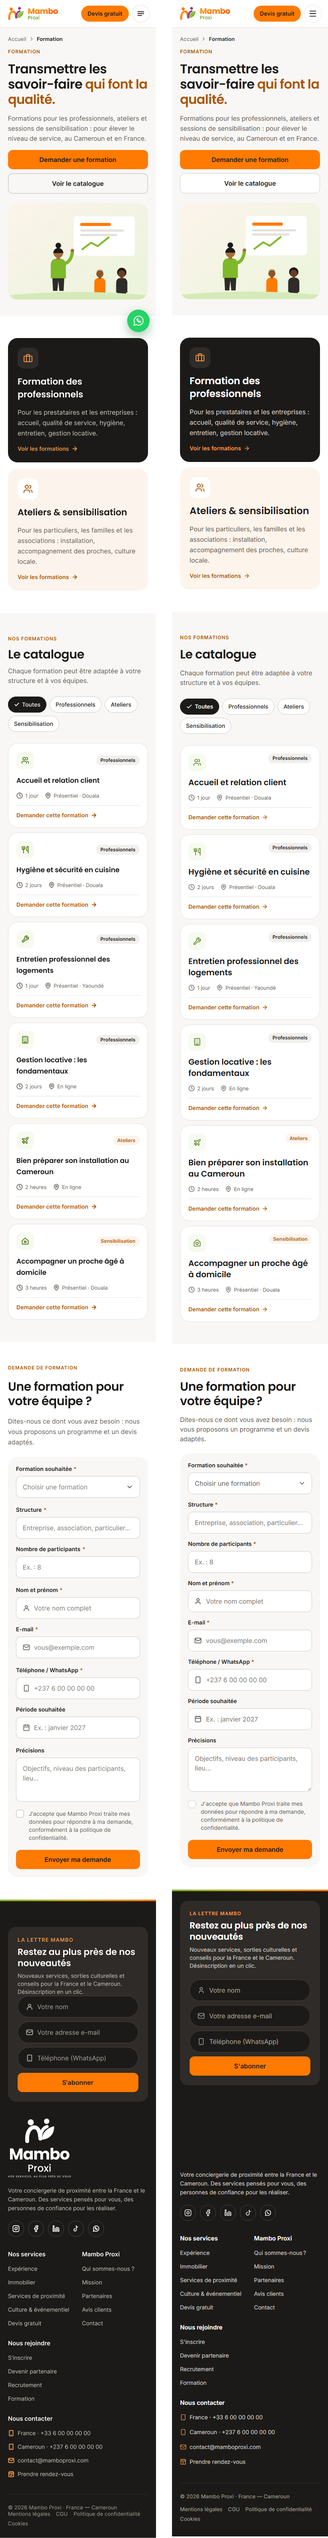
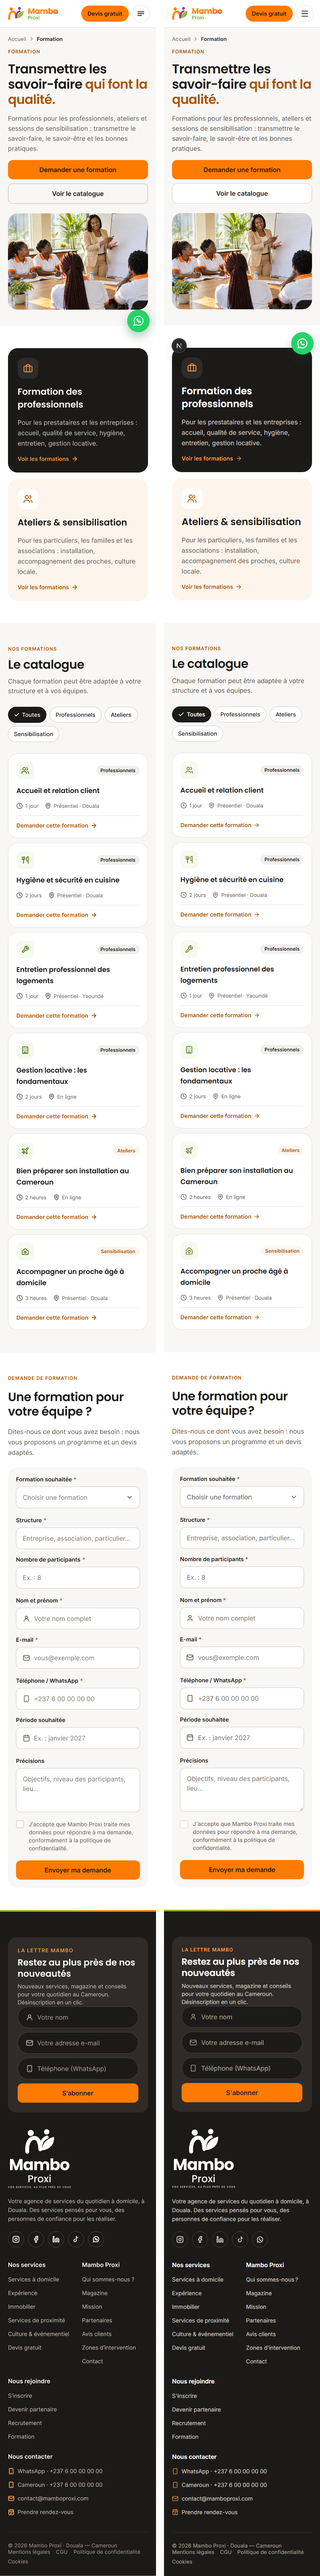
feat(formation): photos du héros et de la demande, chapô de la maquette, version anglaise et formations en anglais

Changed region(s): [[0.0, 0.0, 1.0, 1.0], [0.8438, 0.249, 0.9375, 0.2801], [0.8125, 0.5914, 0.9062, 0.6225]]

diff --git a/src/mocks/data/pages.ts b/src/mocks/data/pages.ts
@@ -947,7 +947,7 @@ const formation: Page = {
   seo: {
     title: 'Formations pour les professionnels et ateliers au Cameroun',
     description:
-      'Formations pour les professionnels, ateliers et sessions de sensibilisation : pour élever le niveau de service, au Cameroun et en France.',
+      'Formations pour les professionnels, ateliers et sessions de sensibilisation : transmettre le savoir-faire, le savoir-être et les bonnes pratiques.',
     ogImageUrl: null,
     noindex: false,
   },
@@ -959,8 +959,14 @@ const formation: Page = {
       variant: 'page',
       eyebrow: 'Formation',
       title: 'Transmettre les savoir-faire ==qui font la qualité.==',
-      lead: 'Formations pour les professionnels, ateliers et sessions de sensibilisation : pour élever le niveau de service, au Cameroun et en France.',
-      visual: visual('formation'),
+      lead: 'Formations pour les professionnels, ateliers et sessions de sensibilisation : transmettre le savoir-faire, le savoir-être et les bonnes pratiques.',
+      visual: photo(
+        'formation',
+        'formation-hero',
+        1280,
+        960,
+        'Une formatrice anime une session devant des intervenants en tenue Mambo Proxi.',
+      ),
       primaryCta: { label: 'Demander une formation', href: '#demande-formation', external: false },
       secondaryCta: { label: 'Voir le catalogue', href: '#catalogue', external: false },
       showWhatsapp: false,
@@ -1018,6 +1024,108 @@ const formation: Page = {
       eyebrow: 'Demande de formation',
       title: 'Une formation pour votre équipe ?',
       lead: 'Dites-nous ce dont vous avez besoin : nous vous proposons un programme et un devis adaptés.',
+      visual: photo(
+        'formation',
+        'formation-form',
+        1536,
+        1024,
+        'Une formatrice montre à une intervenante comment préparer un lit.',
+      ),
+    },
+  ],
+};
+
+/** Formation en anglais (`?lang=en`) : textes rédigés pour le site. */
+const formationEn: Page = {
+  ...formation,
+  title: 'Training',
+  seo: {
+    title: 'Training for professionals and workshops in Cameroon',
+    description:
+      'Training for professionals, workshops and awareness sessions: passing on know-how, people skills and good practice.',
+    ogImageUrl: null,
+    noindex: false,
+  },
+  sections: [
+    {
+      id: 'hero',
+      type: 'hero',
+      enabled: true,
+      variant: 'page',
+      eyebrow: 'Training',
+      title: 'Passing on the skills ==that make quality.==',
+      lead: 'Training for professionals, workshops and awareness sessions: passing on know-how, people skills and good practice.',
+      visual: photo(
+        'formation',
+        'formation-hero',
+        1280,
+        960,
+        'A trainer leads a session for service providers in Mambo Proxi uniforms.',
+      ),
+      primaryCta: { label: 'Request a training course', href: '#demande-formation', external: false },
+      secondaryCta: { label: 'See the catalogue', href: '#catalogue', external: false },
+      showWhatsapp: false,
+    },
+    {
+      id: 'offres',
+      type: 'cardGrid',
+      enabled: true,
+      tone: 'light',
+      layout: 'compact',
+      columns: 2,
+      items: [
+        {
+          icon: 'Briefcase',
+          title: 'Training for professionals',
+          tone: 'dark',
+          text: 'For service providers and businesses: customer welcome, service quality, hygiene, cleaning, property management.',
+          cta: {
+            label: 'See the courses',
+            href: '/formation?categorie=PROFESSIONNELS#catalogue',
+            external: false,
+          },
+        },
+        {
+          icon: 'Users',
+          title: 'Workshops & awareness',
+          tone: 'orange',
+          text: 'For individuals, families and associations: settling in, caring for loved ones, local culture.',
+          cta: {
+            label: 'See the courses',
+            href: '/formation?categorie=ATELIERS#catalogue',
+            external: false,
+          },
+        },
+      ],
+    },
+    {
+      id: 'catalogue',
+      type: 'dynamic',
+      enabled: true,
+      anchor: 'catalogue',
+      tone: 'muted',
+      source: 'trainings-catalog',
+      eyebrow: 'Our courses',
+      title: 'The catalogue',
+      lead: 'Every course can be tailored to your organisation and your teams.',
+    },
+    {
+      id: 'demande',
+      type: 'dynamic',
+      enabled: true,
+      anchor: 'demande-formation',
+      tone: 'light',
+      source: 'training-form',
+      eyebrow: 'Training request',
+      title: 'Training for your team?',
+      lead: 'Tell us what you need: we will suggest a programme and a quote to match.',
+      visual: photo(
+        'formation',
+        'formation-form',
+        1536,
+        1024,
+        'A trainer shows a service provider how to make a bed.',
+      ),
     },
   ],
 };
@@ -1572,6 +1680,7 @@ export const pagesEn: Partial<Record<Page['key'], Page>> = {
   'qui-sommes-nous': quiSommesNousEn,
   mission: missionEn,
   partenaires: partenairesEn,
+  formation: formationEn,
   magazine: magazineEn,
   'zones-d-intervention': zonesEn,
 };

diff --git a/src/mocks/handlers/trainings.ts b/src/mocks/handlers/trainings.ts
@@ -1,5 +1,6 @@
 import { http, HttpResponse } from 'msw';
 import type { Training, TrainingCategory } from '@/lib/api/schema';
+import { langOf } from '../data/catalogue';
 
 const LABELS: Record<TrainingCategory, { label: string; audience: string }> = {
   PROFESSIONNELS: { label: 'Professionnels', audience: 'Prestataires et entreprises' },
@@ -89,9 +90,36 @@ export const trainings: Training[] = [
   ),
 ];
 
+/** Textes anglais du catalogue (`?lang=en`), par formation. */
+const LABELS_EN: Record<TrainingCategory, { label: string; audience: string }> = {
+  PROFESSIONNELS: { label: 'Professionals', audience: 'Service providers and businesses' },
+  ATELIERS: { label: 'Workshops', audience: 'Individuals and families' },
+  SENSIBILISATION: { label: 'Awareness', audience: 'Families and associations' },
+};
+
+const EN: Record<string, { title: string; duration: string }> = {
+  'accueil-relation-client': { title: 'Customer welcome and relations', duration: '1 day' },
+  'hygiene-securite-cuisine': { title: 'Kitchen hygiene and safety', duration: '2 days' },
+  'entretien-logements': { title: 'Professional home cleaning', duration: '1 day' },
+  'gestion-locative-fondamentaux': { title: 'Property management: the basics', duration: '2 days' },
+  'preparer-installation-cameroun': { title: 'Preparing your move to Cameroon', duration: '2 hours' },
+  'accompagner-proche-age': { title: 'Caring for an elderly relative at home', duration: '3 hours' },
+};
+
+const FORMATS_EN: Record<string, string> = { Présentiel: 'In person', 'En ligne': 'Online' };
+
+const trainingsEn: Training[] = trainings.map((item) => ({
+  ...item,
+  ...EN[item.slug],
+  categoryLabel: LABELS_EN[item.category].label,
+  audienceLabel: LABELS_EN[item.category].audience,
+  format: FORMATS_EN[item.format] ?? item.format,
+}));
+
 export const trainingHandlers = [
   http.get('*/v1/trainings', ({ request }) => {
     const category = new URL(request.url).searchParams.get('category');
-    return HttpResponse.json(category ? trainings.filter((item) => item.category === category) : trainings);
+    const list = langOf(request) === 'en' ? trainingsEn : trainings;
+    return HttpResponse.json(category ? list.filter((item) => item.category === category) : list);
   }),
 ];
